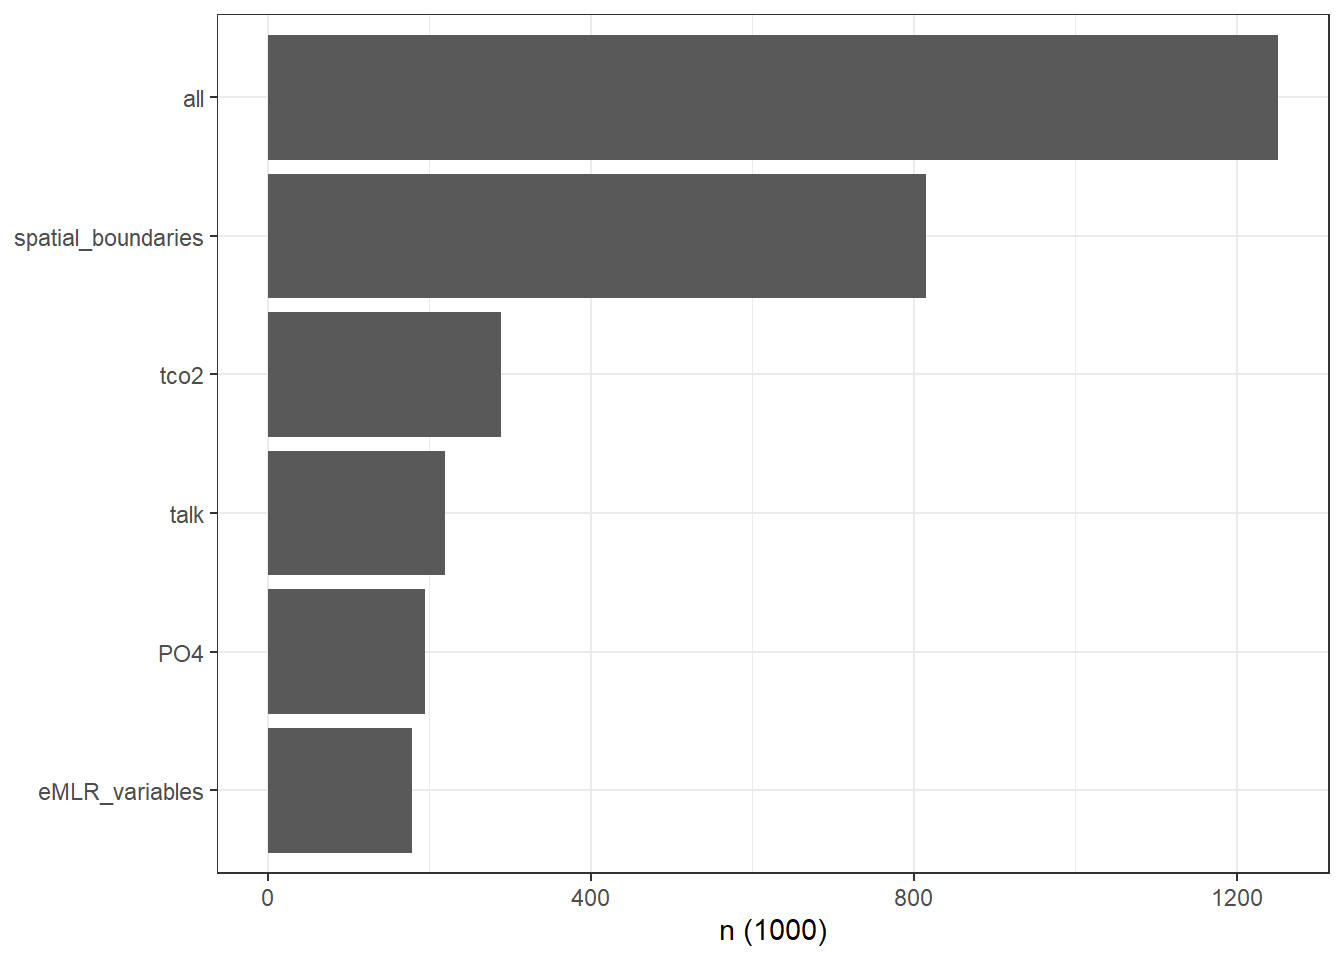
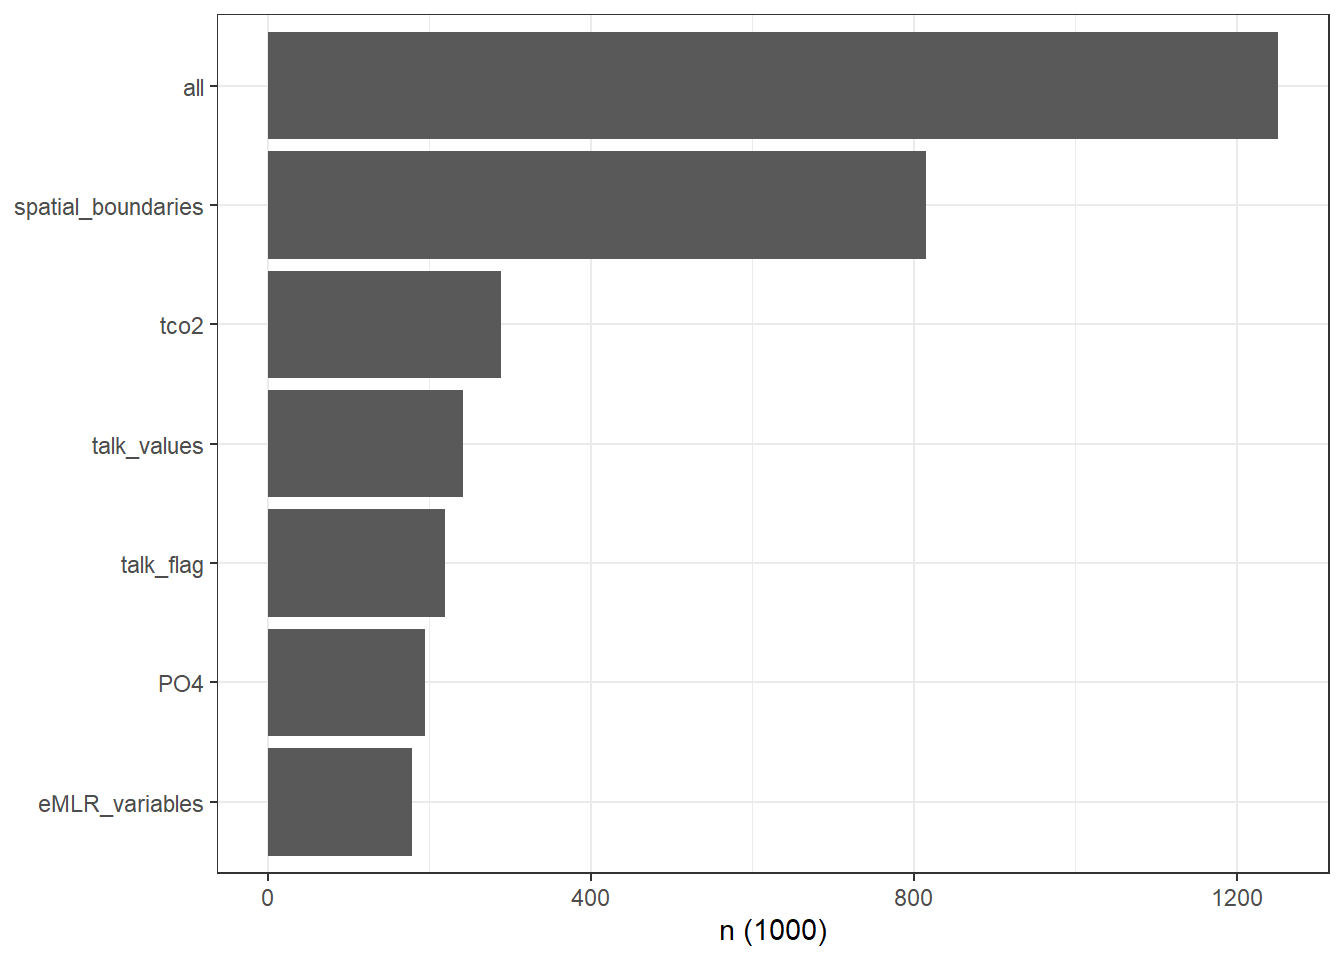
Build site.

diff --git a/docs/read_GLODAPv2_2020.html b/docs/read_GLODAPv2_2020.html
@@ -615,16 +615,16 @@ This reproducible <a href="http://rmarkdown.rstudio.com">R Markdown</a> analysis
 <div class="panel panel-default">
 <div class="panel-heading">
 <p class="panel-title">
-<a data-toggle="collapse" data-parent="#workflowr-checks" href="#strongRepositoryversionstrongahrefhttpsgithubcomjensdanielmuellerCanteMLRtreeb047c4b8d32b7c438a4e58386e516fd3aefbb2a1targetblankb047c4ba"> <span class="glyphicon glyphicon-ok text-success" aria-hidden="true"></span> <strong>Repository version:</strong> <a href="https://github.com/jens-daniel-mueller/Cant_eMLR/tree/b047c4b8d32b7c438a4e58386e516fd3aefbb2a1" target="_blank">b047c4b</a> </a>
+<a data-toggle="collapse" data-parent="#workflowr-checks" href="#strongRepositoryversionstrongahrefhttpsgithubcomjensdanielmuellerCanteMLRtreebe824b0358c3c6386f585fd8e3e143ea181dc3eatargetblankbe824b0a"> <span class="glyphicon glyphicon-ok text-success" aria-hidden="true"></span> <strong>Repository version:</strong> <a href="https://github.com/jens-daniel-mueller/Cant_eMLR/tree/be824b0358c3c6386f585fd8e3e143ea181dc3ea" target="_blank">be824b0</a> </a>
 </p>
 </div>
[2 lines of base64/hex data omitted]
 <div class="panel-body">
 <p>
 Great! You are using Git for version control. Tracking code development and connecting the code version to the results is critical for reproducibility.
 </p>
 <p>
-The results in this page were generated with repository version <a href="https://github.com/jens-daniel-mueller/Cant_eMLR/tree/b047c4b8d32b7c438a4e58386e516fd3aefbb2a1" target="_blank">b047c4b</a>. See the <em>Past versions</em> tab to see a history of the changes made to the R Markdown and HTML files.
+The results in this page were generated with repository version <a href="https://github.com/jens-daniel-mueller/Cant_eMLR/tree/be824b0358c3c6386f585fd8e3e143ea181dc3ea" target="_blank">be824b0</a>. See the <em>Past versions</em> tab to see a history of the changes made to the R Markdown and HTML files.
 </p>
 <p>
 Note that you need to be careful to ensure that all relevant files for the analysis have been committed to Git prior to generating the results (you can use <code>wflow_publish</code> or <code>wflow_git_commit</code>). workflowr only checks the R Markdown file, but you know if there are other scripts or data files that it depends on. Below is the status of the Git repository when the results were generated:
@@ -681,6 +681,40 @@ Message
 </tr>
 </thead>
 <tbody>
+<tr>
+<td>
+Rmd
+</td>
+<td>
+<a href="https://github.com/jens-daniel-mueller/Cant_eMLR/blob/be824b0358c3c6386f585fd8e3e143ea181dc3ea/analysis/read_GLODAPv2_2020.Rmd" target="_blank">be824b0</a>
+</td>
+<td>
+jens-daniel-mueller
+</td>
+<td>
+2020-09-01
+</td>
+<td>
+talk subsetting stats flagging resolved
+</td>
+</tr>
+<tr>
+<td>
+html
+</td>
+<td>
+<a href="https://rawcdn.githack.com/jens-daniel-mueller/Cant_eMLR/3d9b20fa4668baa1952bddc86b2cbbd158fff812/docs/read_GLODAPv2_2020.html" target="_blank">3d9b20f</a>
+</td>
+<td>
+jens-daniel-mueller
+</td>
+<td>
+2020-09-01
+</td>
+<td>
+Build site.
+</td>
+</tr>
 <tr>
 <td>
 Rmd
@@ -2480,10 +2514,33 @@ GLODAP_obs_grid &lt;-
 
 rm(GLODAP_obs_grid_temp)</code></pre>
 </div>
-<div id="c-variables" class="section level3">
-<h3><span class="header-section-number">2.4.2</span> C* variables</h3>
+<div id="talk" class="section level3">
+<h3><span class="header-section-number">2.4.2</span> talk</h3>
 <pre class="r"><code>GLODAP &lt;- GLODAP %&gt;% 
   filter(!is.na(talk))
+
+
+##
+
+GLODAP_stats_temp &lt;- GLODAP %&gt;% 
+  summarise(talk_values = n())
+
+GLODAP_stats &lt;- cbind(GLODAP_stats, GLODAP_stats_temp)
+rm(GLODAP_stats_temp)
+
+##
+
+GLODAP_obs_grid_temp &lt;- GLODAP %&gt;% 
+  count(lat, lon, era) %&gt;% 
+  mutate(cleaning_level = &quot;talk_values&quot;)
+
+GLODAP_obs_grid &lt;-
+  bind_rows(GLODAP_obs_grid, GLODAP_obs_grid_temp)
+
+rm(GLODAP_obs_grid_temp)
+
+#####
+
 
 GLODAP &lt;- GLODAP %&gt;% 
   filter(talkf == parameters$flag_f) %&gt;% 
@@ -2496,7 +2553,7 @@ GLODAP &lt;- GLODAP %&gt;%
 ##
 
 GLODAP_stats_temp &lt;- GLODAP %&gt;% 
-  summarise(talk = n())
+  summarise(talk_flag = n())
 
 GLODAP_stats &lt;- cbind(GLODAP_stats, GLODAP_stats_temp)
 rm(GLODAP_stats_temp)
@@ -2505,16 +2562,16 @@ rm(GLODAP_stats_temp)
 
 GLODAP_obs_grid_temp &lt;- GLODAP %&gt;% 
   count(lat, lon, era) %&gt;% 
-  mutate(cleaning_level = &quot;talk&quot;)
+  mutate(cleaning_level = &quot;talk_flag&quot;)
 
 GLODAP_obs_grid &lt;-
   bind_rows(GLODAP_obs_grid, GLODAP_obs_grid_temp)
 
-rm(GLODAP_obs_grid_temp)
-
-
-
-##
+rm(GLODAP_obs_grid_temp)</code></pre>
+</div>
+<div id="phosphate" class="section level3">
+<h3><span class="header-section-number">2.4.3</span> Phosphate</h3>
+<pre class="r"><code>##
 
 GLODAP &lt;- GLODAP %&gt;% 
   filter(!is.na(phosphate))
@@ -2548,7 +2605,7 @@ GLODAP_obs_grid &lt;-
 rm(GLODAP_obs_grid_temp)</code></pre>
 </div>
 <div id="emlr-variables" class="section level3">
-<h3><span class="header-section-number">2.4.3</span> eMLR variables</h3>
+<h3><span class="header-section-number">2.4.4</span> eMLR variables</h3>
 <pre class="r"><code>GLODAP &lt;- GLODAP %&gt;% 
   filter(!is.na(tem))
 
@@ -2642,7 +2699,7 @@ GLODAP_obs_grid &lt;-
 rm(GLODAP_obs_grid_temp)</code></pre>
 </div>
 <div id="manual-adjustment-a16-cruise" class="section level3">
-<h3><span class="header-section-number">2.4.4</span> Manual adjustment A16 cruise</h3>
+<h3><span class="header-section-number">2.4.5</span> Manual adjustment A16 cruise</h3>
 <p>For harmonization with Gruber et al. (2019), cruises 1041 (A16N) and 1042 (A16S) were grouped into the GO_SHIP area despite taking place in 2013/14.</p>
 <pre class="r"><code>GLODAP_cruises &lt;- GLODAP %&gt;% 
   filter(basin == &quot;Atlantic&quot;,
@@ -2831,21 +2888,17 @@ GLODAP_hovmoeller_year %&gt;%
 </div>
 <div id="coverage-maps-by-era" class="section level2">
 <h2><span class="header-section-number">3.6</span> Coverage maps by era</h2>
-<div id="subsetting-effect" class="section level3">
-<h3><span class="header-section-number">3.6.1</span> Subsetting effect</h3>
+<div id="subsetting-process" class="section level3">
+<h3><span class="header-section-number">3.6.1</span> Subsetting process</h3>
+<pre class="r"><code>unique(GLODAP_obs_grid$cleaning_level)</code></pre>
+<pre><code>[1] &quot;all&quot;                &quot;spatial_boundaries&quot; &quot;tco2&quot;              
+[4] &quot;talk_values&quot;        &quot;talk_flag&quot;          &quot;PO4&quot;               
+[7] &quot;eMLR_variables&quot;    </code></pre>
 <pre class="r"><code>GLODAP_obs_grid &lt;- GLODAP_obs_grid %&gt;%
   mutate(era = factor(era, c(&quot;JGOFS_WOCE&quot;, &quot;GO_SHIP&quot;, &quot;new_era&quot;)),
          cleaning_level = factor(
            cleaning_level,
-           c(
-             &quot;all&quot;,
-             &quot;below_150m&quot;,
-             &quot;below_150m_65N_500m&quot;,
-             &quot;basinmask&quot;,
-             &quot;tco2&quot;,
-             &quot;Cstar_variables&quot;,
-             &quot;eMLR_variables&quot;
-           )
+           unique(GLODAP_obs_grid$cleaning_level)
          ))
 
 GLODAP_obs_grid %&gt;%
